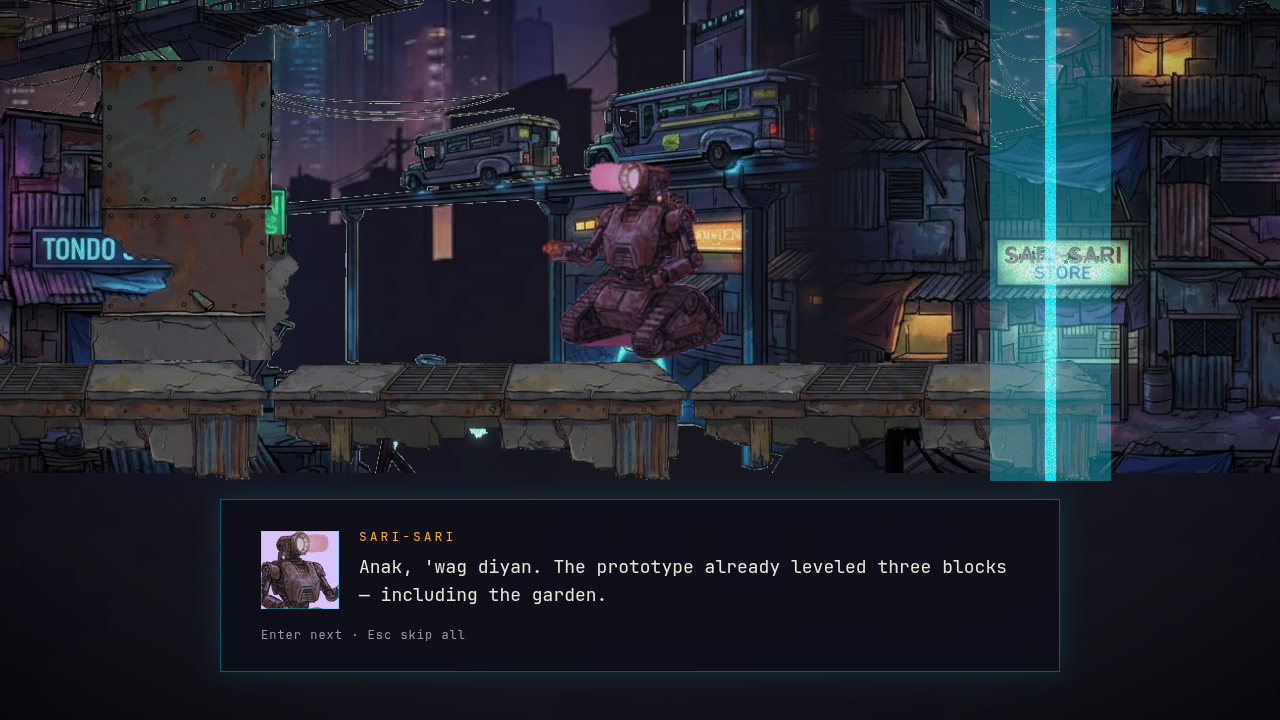
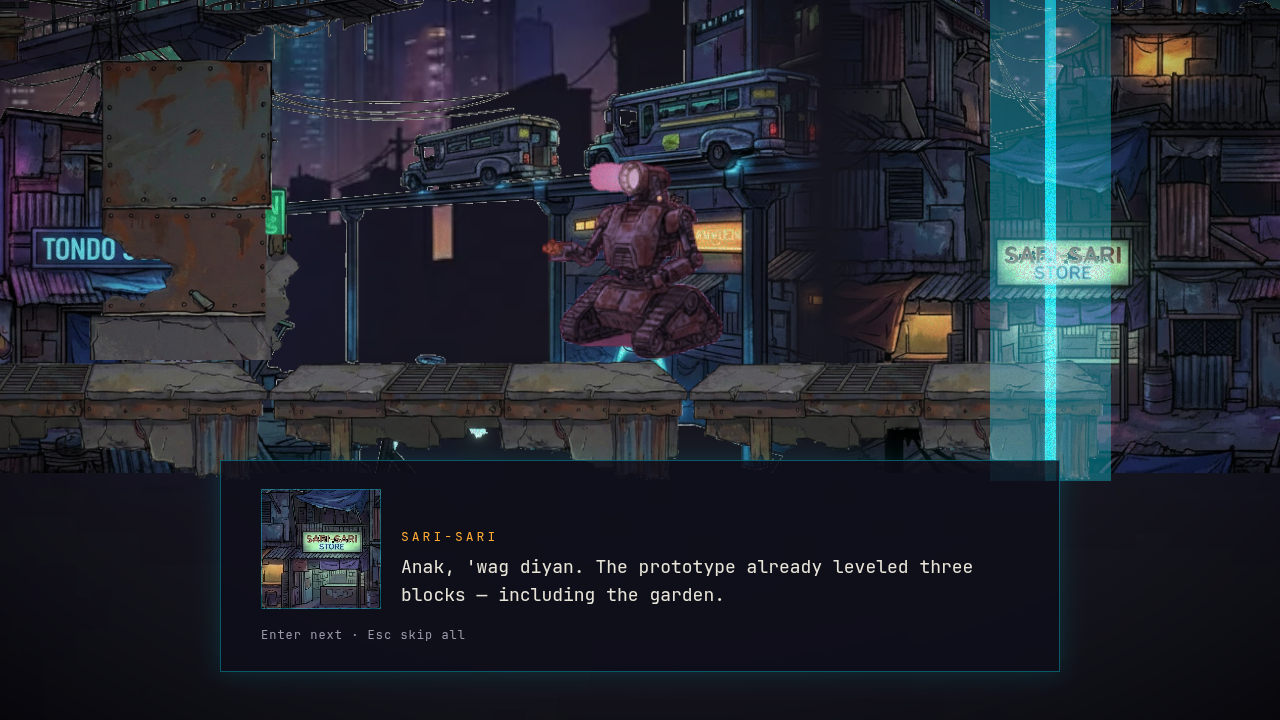
fix: sari-sari portrait from town backdrop crop
Address Sining's art review: drop the ASWANG-tinted patroller stand-in.
Sari-sari uses the painted SARI-SARI STORE from the Level 1 mid town
backdrop (crop 80,400,280,280), scaled into Ando's portrait box. Extend
resolvePortrait to load backdrop stems with absolute crops.

diff --git a/src/content/cutscene.ts b/src/content/cutscene.ts
@@ -10,6 +10,9 @@ import { isInt, isRecord, NAME_RE } from './json';
 /** Default line duration when a beat omits `holdMs`. Shell wall-clock, not sim ticks. */
 export const DEFAULT_HOLD_MS = 3200;
 
+/** Longest edge of a cutscene portrait box (matches Ando idle height). */
+export const PORTRAIT_MAX_EDGE = 120;
+
 export interface CutsceneCrop {
   readonly x: number;
   readonly y: number;
@@ -17,13 +20,23 @@ export interface CutsceneCrop {
   readonly h: number;
 }
 
+/**
+ * Portrait from a packed character atlas (`atlas` + frame/animation) or from a
+ * level backdrop stem (`backdrop` + absolute `crop` in image pixels). Exactly
+ * one of `atlas` / `backdrop` is set.
+ */
 export interface CutscenePortrait {
-  readonly atlas: string;
+  readonly atlas?: string;
+  /** Backdrop file stem under `assets/backdrops/<level>/`, e.g. `"town"`. */
+  readonly backdrop?: string;
   readonly frame?: string;
   readonly animation?: string;
-  /** Optional multiply tint (0..0xffffff), e.g. ENEMY_LOOK.aswang. */
+  /** Optional multiply tint (0..0xffffff). */
   readonly tint?: number;
-  /** Optional crop in frame pixels (origin at the frame's top-left). */
+  /**
+   * Crop rectangle. For an atlas portrait: relative to the frame's top-left.
+   * For a backdrop portrait: absolute image pixels (required).
+   */
   readonly crop?: CutsceneCrop;
 }
 
@@ -58,6 +71,13 @@ export function beatHoldMs(beat: CutsceneBeat | null | undefined): number {
   return beat.holdMs;
 }
 
+/** Shrink a source rect into the portrait box without upscaling. */
+export function fitPortraitDisplay(w: number, h: number, maxEdge = PORTRAIT_MAX_EDGE): { w: number; h: number } {
+  if (w <= 0 || h <= 0) return { w: 0, h: 0 };
+  const s = Math.min(1, maxEdge / Math.max(w, h));
+  return { w: Math.max(1, Math.round(w * s)), h: Math.max(1, Math.round(h * s)) };
+}
+
 function cropProblems(c: unknown, label: string): string[] {
   if (!isRecord(c)) return [`${label}: must be an object`];
   const out: string[] = [];
@@ -70,16 +90,27 @@ function cropProblems(c: unknown, label: string): string[] {
 function portraitProblems(p: unknown, label: string): string[] {
   if (!isRecord(p)) return [`${label}: must be an object`];
   const out: string[] = [];
-  if (typeof p.atlas !== 'string' || !NAME_RE.test(p.atlas)) out.push(`${label}.atlas must match ${String(NAME_RE)}`);
-  if (p.frame !== undefined && (typeof p.frame !== 'string' || p.frame.length === 0)) out.push(`${label}.frame must be a non-empty string`);
-  if (p.animation !== undefined && (typeof p.animation !== 'string' || p.animation.length === 0)) {
-    out.push(`${label}.animation must be a non-empty string`);
+  const hasAtlas = p.atlas !== undefined;
+  const hasBackdrop = p.backdrop !== undefined;
+  if (hasAtlas === hasBackdrop) out.push(`${label}: needs exactly one of atlas or backdrop`);
+  if (hasAtlas) {
+    if (typeof p.atlas !== 'string' || !NAME_RE.test(p.atlas)) out.push(`${label}.atlas must match ${String(NAME_RE)}`);
+    if (p.frame !== undefined && (typeof p.frame !== 'string' || p.frame.length === 0)) out.push(`${label}.frame must be a non-empty string`);
+    if (p.animation !== undefined && (typeof p.animation !== 'string' || p.animation.length === 0)) {
+      out.push(`${label}.animation must be a non-empty string`);
+    }
+    if (p.frame === undefined && p.animation === undefined) out.push(`${label}: needs frame or animation`);
+    if (p.crop !== undefined) out.push(...cropProblems(p.crop, `${label}.crop`));
   }
-  if (p.frame === undefined && p.animation === undefined) out.push(`${label}: needs frame or animation`);
+  if (hasBackdrop) {
+    if (typeof p.backdrop !== 'string' || !NAME_RE.test(p.backdrop)) out.push(`${label}.backdrop must match ${String(NAME_RE)}`);
+    if (p.crop === undefined) out.push(`${label}: backdrop portraits need a crop`);
+    else out.push(...cropProblems(p.crop, `${label}.crop`));
+    if (p.frame !== undefined || p.animation !== undefined) out.push(`${label}: backdrop portraits do not use frame or animation`);
+  }
   if (p.tint !== undefined && (!isInt(p.tint) || (p.tint as number) < 0 || (p.tint as number) > 0xffffff)) {
     out.push(`${label}.tint must be an integer 0..0xffffff`);
   }
-  if (p.crop !== undefined) out.push(...cropProblems(p.crop, `${label}.crop`));
   return out;
 }
 
@@ -105,8 +136,8 @@ function beatProblems(b: unknown, label: string): string[] {
 }
 
 /**
- * Structural checks for a cutscene script. Empty means valid. Atlas and frame
- * existence against packed sheets is resolved at play time (missing art falls
+ * Structural checks for a cutscene script. Empty means valid. Atlas / backdrop
+ * existence against packed assets is resolved at play time (missing art falls
  * back to a typography-only nameplate).
  */
 export function cutsceneProblems(json: unknown): string[] {

diff --git a/src/app/app.ts b/src/app/app.ts
@@ -12,6 +12,7 @@ import { presentedCamera, type WeakPointCue } from '@render/motion';
 import type { PostOptions } from '@render/post';
 import { Stage } from '@render/stage';
 import { toUnits } from '@render/units';
+import { fitPortraitDisplay } from '@content/cutscene';
 import type { LevelJson } from '@content/level';
 import type { Bindings } from './bindings';
 import { DebugOverlay } from './debug';
@@ -342,21 +343,30 @@ export class App {
   }
 
   /**
-   * Resolve a cutscene portrait against loaded atlases. Returns null when the
-   * atlas or frame is missing so the overlay can fall back to typography-only.
-   * An optional `crop` is relative to the frame's top-left (atlas pixels).
+   * Resolve a cutscene portrait against loaded atlases or the level's backdrops.
+   * Returns null when the sheet/crop is missing so the overlay can fall back to
+   * typography-only. Atlas crops are relative to the frame; backdrop crops are
+   * absolute image pixels. Display size is fitted to {@link fitPortraitDisplay}.
    */
   resolvePortrait(portrait: {
-    atlas: string;
+    atlas?: string;
+    backdrop?: string;
     frame?: string;
     animation?: string;
     tint?: number;
     crop?: { x: number; y: number; w: number; h: number };
   }): {
     imageUrl: string;
+    /** Source crop in image pixels. */
     frame: { x: number; y: number; w: number; h: number };
+    /** Full image size, for CSS `background-size` when scaling the box. */
+    imageSize: { w: number; h: number };
+    /** CSS box size (fitted into the portrait slot). */
+    display: { w: number; h: number };
     tint: number | null;
   } | null {
+    if (portrait.backdrop) return this.resolveBackdropPortrait(portrait.backdrop, portrait.crop, portrait.tint);
+    if (!portrait.atlas) return null;
     const sheet = portrait.atlas === 'batoman' ? this.assets.batoman : this.assets.enemies.get(portrait.atlas);
     if (!sheet) return null;
     let frameName = portrait.frame;
@@ -373,7 +383,42 @@ export class App {
       : { x: frame.x, y: frame.y, w: frame.w, h: frame.h };
     if (rect.w <= 0 || rect.h <= 0) return null;
     const imageUrl = `${import.meta.env.BASE_URL}assets/atlases/${sheet.json.image}`;
-    return { imageUrl, frame: rect, tint: portrait.tint ?? null };
+    return {
+      imageUrl,
+      frame: rect,
+      imageSize: { w: sheet.json.width, h: sheet.json.height },
+      display: fitPortraitDisplay(rect.w, rect.h),
+      tint: portrait.tint ?? null,
+    };
+  }
+
+  private resolveBackdropPortrait(
+    stem: string,
+    crop: { x: number; y: number; w: number; h: number } | undefined,
+    tint: number | undefined,
+  ): {
+    imageUrl: string;
+    frame: { x: number; y: number; w: number; h: number };
+    imageSize: { w: number; h: number };
+    display: { w: number; h: number };
+    tint: number | null;
+  } | null {
+    if (!crop || crop.w <= 0 || crop.h <= 0) return null;
+    const art = this.level.art;
+    const levelArt = this.assets.levelArt;
+    if (!art || !levelArt) return null;
+    const slot = Object.entries(art.backdrops).find(([, file]) => file === stem)?.[0];
+    if (!slot || !levelArt.backdrops.has(slot)) return null;
+    const meta = levelArt.backdrops.get(slot)!.meta;
+    if (crop.x + crop.w > meta.width || crop.y + crop.h > meta.height) return null;
+    const imageUrl = `${import.meta.env.BASE_URL}assets/backdrops/${this.level.id}/${stem}.webp`;
+    return {
+      imageUrl,
+      frame: { x: crop.x, y: crop.y, w: crop.w, h: crop.h },
+      imageSize: { w: meta.width, h: meta.height },
+      display: fitPortraitDisplay(crop.w, crop.h),
+      tint: tint ?? null,
+    };
   }
 
   /**

diff --git a/tests/unit/content/cutscene.test.ts b/tests/unit/content/cutscene.test.ts
@@ -1,5 +1,5 @@
 import { describe, expect, it } from 'vitest';
-import { beatHoldMs, cutsceneProblems, DEFAULT_HOLD_MS, parseCutscene } from '@content/cutscene';
+import { beatHoldMs, cutsceneProblems, DEFAULT_HOLD_MS, fitPortraitDisplay, parseCutscene, PORTRAIT_MAX_EDGE } from '@content/cutscene';
 
 const valid = {
   version: 1 as const,
@@ -16,10 +16,8 @@ const valid = {
       speaker: 'Sari-sari',
       text: "Anak, 'wag diyan.",
       portrait: {
-        atlas: 'patroller',
-        animation: 'idle',
-        tint: 0xd8b4ff,
-        crop: { x: 20, y: 0, w: 78, h: 78 },
+        backdrop: 'town',
+        crop: { x: 80, y: 400, w: 280, h: 280 },
       },
       holdMs: 3600,
     },
@@ -27,7 +25,7 @@ const valid = {
 };
 
 describe('cutscene script', () => {
-  it('accepts a valid script', () => {
+  it('accepts a valid script with atlas and backdrop portraits', () => {
     expect(cutsceneProblems(valid)).toEqual([]);
     expect(parseCutscene(valid).beats).toHaveLength(2);
   });
@@ -38,12 +36,24 @@ describe('cutscene script', () => {
     expect(cutsceneProblems({ version: 1, id: 'LEVEL 1', beats: valid.beats })[0]).toMatch(/id must match/);
   });
 
-  it('rejects a portrait without frame or animation, and a broken camera or crop', () => {
+  it('rejects a portrait without atlas/backdrop, and a broken crop or camera', () => {
+    const noSource = {
+      ...valid,
+      beats: [{ speaker: 'Ando', text: 'hi', portrait: { animation: 'idle' }, holdMs: 1 }],
+    };
+    expect(cutsceneProblems(noSource).some((p) => p.includes('exactly one of atlas or backdrop'))).toBe(true);
+
     const noFrame = {
       ...valid,
       beats: [{ speaker: 'Ando', text: 'hi', portrait: { atlas: 'batoman' }, holdMs: 1 }],
     };
     expect(cutsceneProblems(noFrame).some((p) => p.includes('needs frame or animation'))).toBe(true);
+
+    const backdropNoCrop = {
+      ...valid,
+      beats: [{ speaker: 'Sari-sari', text: 'hi', portrait: { backdrop: 'town' }, holdMs: 1 }],
+    };
+    expect(cutsceneProblems(backdropNoCrop).some((p) => p.includes('need a crop'))).toBe(true);
 
     const badCam = {
       ...valid,
@@ -52,20 +62,6 @@ describe('cutscene script', () => {
     const problems = cutsceneProblems(badCam);
     expect(problems.some((p) => p.includes('x and .y'))).toBe(true);
     expect(problems.some((p) => p.includes('ms'))).toBe(true);
-
-    const badCrop = {
-      ...valid,
-      beats: [{ speaker: 'Ando', text: 'hi', portrait: { atlas: 'patroller', frame: 'idle_00', crop: { x: 0, y: 0, w: 0, h: 10 } }, holdMs: 1 }],
-    };
-    expect(cutsceneProblems(badCrop).some((p) => p.includes('crop'))).toBe(true);
-  });
-
-  it('rejects a portrait with a non-identifier atlas name', () => {
-    const bad = {
-      ...valid,
-      beats: [{ speaker: 'Ando', text: 'hi', portrait: { atlas: 'Bato Man', animation: 'idle' }, holdMs: 1 }],
-    };
-    expect(cutsceneProblems(bad).some((p) => p.includes('atlas'))).toBe(true);
   });
 
   it('allows omitting holdMs and resolves the default', () => {
@@ -77,5 +73,11 @@ describe('cutscene script', () => {
     expect(cutsceneProblems(noHold)).toEqual([]);
     expect(beatHoldMs(noHold.beats[0])).toBe(DEFAULT_HOLD_MS);
     expect(beatHoldMs({ speaker: 'Ando', text: 'hi', holdMs: 1200 })).toBe(1200);
+  });
+
+  it('fits large crops into the portrait box without upscaling small frames', () => {
+    expect(fitPortraitDisplay(90, 120)).toEqual({ w: 90, h: 120 });
+    expect(fitPortraitDisplay(280, 280)).toEqual({ w: PORTRAIT_MAX_EDGE, h: PORTRAIT_MAX_EDGE });
+    expect(fitPortraitDisplay(600, 300)).toEqual({ w: PORTRAIT_MAX_EDGE, h: PORTRAIT_MAX_EDGE / 2 });
   });
 });

diff --git a/src/app/shell/overlay.ts b/src/app/shell/overlay.ts
@@ -21,7 +21,12 @@ export interface CutsceneView {
   readonly text: string;
   readonly portrait: {
     readonly imageUrl: string;
+    /** Source crop in image pixels. */
     readonly frame: { readonly x: number; readonly y: number; readonly w: number; readonly h: number };
+    /** Full image size for scaled `background-size`. */
+    readonly imageSize: { readonly w: number; readonly h: number };
+    /** CSS box size (fitted into the portrait slot). */
+    readonly display: { readonly w: number; readonly h: number };
     readonly tint: number | null;
   } | null;
 }
@@ -157,15 +162,16 @@ export class Overlay {
         const line = m.cutscene;
         const row = el('div', 'shell-cutscene-row');
         if (line?.portrait) {
-          const frame = line.portrait.frame;
+          const { frame, imageSize, display } = line.portrait;
+          const scale = display.w / frame.w;
           const sprite = el('div', 'shell-portrait');
-          sprite.style.width = `${frame.w}px`;
-          sprite.style.height = `${frame.h}px`;
+          sprite.style.width = `${display.w}px`;
+          sprite.style.height = `${display.h}px`;
           sprite.style.backgroundImage = `url(${line.portrait.imageUrl})`;
-          sprite.style.backgroundPosition = `-${frame.x}px -${frame.y}px`;
-          sprite.style.backgroundSize = 'auto';
+          sprite.style.backgroundRepeat = 'no-repeat';
+          sprite.style.backgroundSize = `${imageSize.w * scale}px ${imageSize.h * scale}px`;
+          sprite.style.backgroundPosition = `-${frame.x * scale}px -${frame.y * scale}px`;
           if (line.portrait.tint !== null) {
-            // Multiply wash for stand-in sheets (e.g. patroller + ASWANG tint). Exact hue is presentation-only.
             sprite.style.backgroundColor = `#${line.portrait.tint.toString(16).padStart(6, '0')}`;
             sprite.style.backgroundBlendMode = 'multiply';
           }

diff --git a/docs/TDD.md b/docs/TDD.md
@@ -425,9 +425,11 @@ click/tap on `#overlay` skips ahead one line, and Esc (`skip`) finishes the scri
 **not** return to the title during a cutscene. The sim stays `paused` (tick 0) for the whole dialog.
 `?level=` / `?edit=1` still skip the intro card; `?cutscene=0` skips scripts on the title path. Scripts live
 in `src/content/cutscenes/<id>.json` (static JSON via `?url&no-inline`), parsed by `src/content/cutscene.ts`.
-Portraits name a packed atlas, frame or animation, and an optional tint or crop; speakers without their own
-sheet reuse an existing one (Level 1 sari-sari uses `patroller` idle with the ASWANG tint).
-`tests/unit/app/screens.test.ts` and `tests/unit/app/cutscene.test.ts` cover the transitions and the runner.
+Portraits name a packed atlas (frame or animation) or a level backdrop stem with an absolute crop, plus an
+optional tint; the overlay fits the crop into a 120 px box so a backdrop stall does not dwarf Ando idle.
+Level 1 sari-sari uses the painted SARI-SARI STORE from the mid `town` backdrop (`crop` 80,400,280,280), not
+an enemy sheet. `tests/unit/app/screens.test.ts` and `tests/unit/app/cutscene.test.ts` cover the transitions
+and the runner.
 
 `Shell` (`shell.ts`) interprets the effects against the `App`, `Overlay`, `GameAudio` and the save store.
 Keys: Enter confirm, Esc back/pause, P pause, arrows or W/S move the cursor, M and N toggle music and sfx
